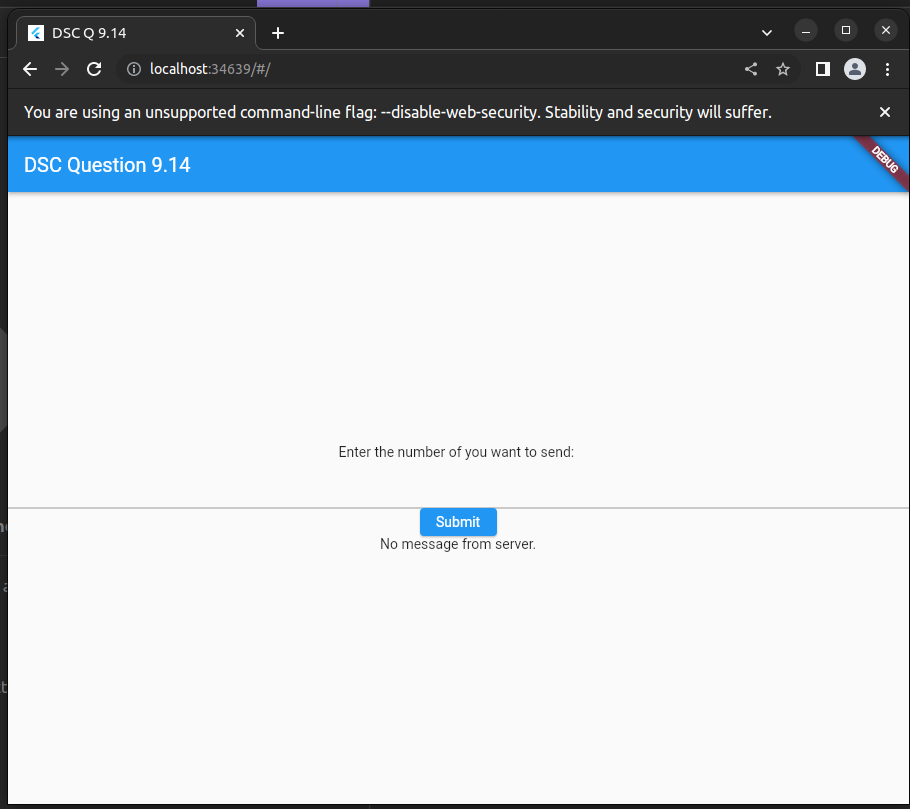
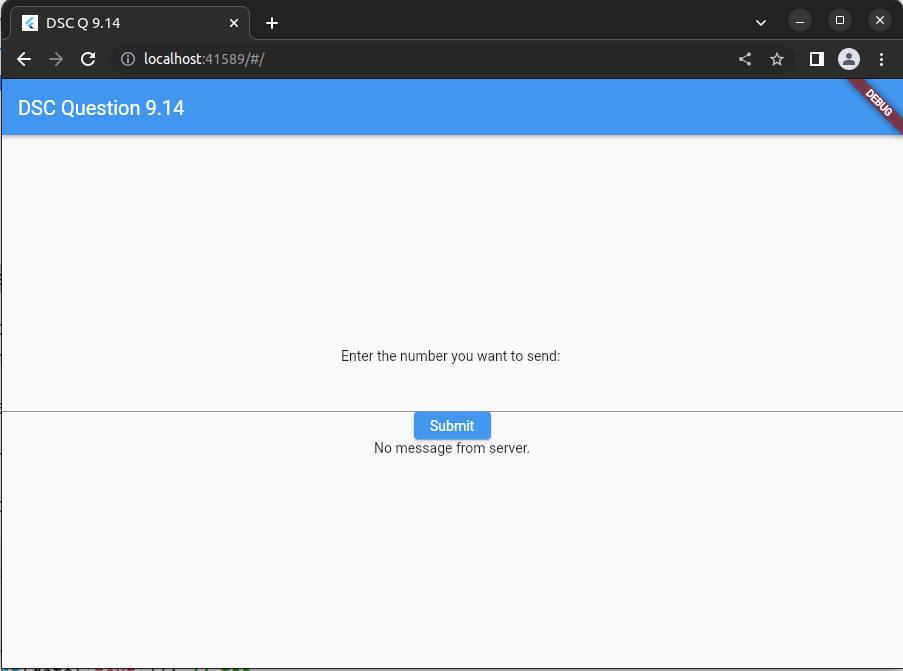
migration from sqlite3 to redis for exercise 9.14

diff --git a/Ch09_Application_Development/9.14.md b/Ch09_Application_Development/9.14.md
@@ -8,53 +8,69 @@
 
 # Python Version: 
 
-We will use the [sqlite](https://www.sqlite.org/index.html) database and [sqlite3](https://docs.python.org/3/library/sqlite3.html) python module.
+We will use the [Redis](https://redis.io/) database and [redis-py](https://github.com/redis/redis-py) python module.
 
-The following is the schema of the database (let's assume its name is `main.db`): 
 
-```sql 
-CREATE TABLE numbers_frequency(
-    n integer primary key, 
-    freq integer default 0
-);
-```
+Make sure Redis is installed on your machine : 
 
-Creating the database: 
+<img src="9.14_redis_ping_pong.png">
 
-<img src="9.14_creation_of_maindb.png"/>
+If Redis is not installed on your machine head on over to [redis.io](https://redis.io/docs/getting-started/). 
+
+
+Install the **redis-py** module: 
+
+<img src="9.14_installing_the_redispy_module.png">
+
+
+
+Then install fastapi: 
+
+<img src="9.14_install_fastapi.png">
 
 The following is the code of our backend: 
 
 ```python
-from fastapi import FastAPI
-import sqlite3
+from fastapi import FastAPI, Depends
+from fastapi.middleware.cors import CORSMiddleware
+
+import redis
 
 app = FastAPI()
-DB_NAME = "main.db"
+
+# to learn more about the following: 
+# https://fastapi.tiangolo.com/tutorial/cors/
+app.add_middleware(
+    CORSMiddleware,
+    allow_origins=["*"],
+    allow_methods=["GET"],
+    allow_headers=["*"],
+)
+
+# dependency with yield
+# to learn more about the following:
+# https://fastapi.tiangolo.com/tutorial/dependencies/dependencies-with-yield/
+def get_db(): 
+    db = redis.Redis(host='localhost', port=6379, db=0)
+    try: 
+        yield db
+    finally: 
+        db.close()
 
 @app.get("/submit")
-def submit_a_number(n: int): 
-    con = sqlite3.connect(DB_NAME)
-    cur = con.cursor()
-
-    res = cur.execute("SELECT * FROM numbers_frequency WHERE n = ?", (n,))
-    data = res.fetchone()
-    retval = dict() 
-
-    if data is None: 
-        # this is the first time the number is submitted
-        # so insert it. 
-        cur.execute("INSERT INTO numbers_frequency VALUES (?, 1)", (n,))
-        retval.update({"freq": 1})
-
-    else: 
-        cur.execute("UPDATE numbers_frequency SET freq = ? WHERE n = ?", (data[1]+1, n))
-        retval.update({"freq": data[1]+1})
-
-    con.commit()
-    con.close()
-    return retval
+def submit_a_number(n: int, db: redis.Redis = Depends(get_db)): 
+    # if you want to learn more about INCR command of redis 
+    # head on over to: https://redis.io/commands/incr/
+    return { 
+        "freq": db.incr(n)
+    }
 ```
+
+The following is taken from the documentation of redis: 
+
+> What does it mean that INCR is atomic? That even multiple clients issuing INCR against the same key will never enter into a race condition. For instance, it will never happen that client 1 reads “10”, client 2 reads “10” at the same time, both increment to 11, and set the new value to 11. The final value will always be 12 and the read-increment-set operation is performed while all the other clients are not executing a command at the same time. 
+
+
 
 Start your server (note that `x.py` holds the python code given above): 
 
@@ -71,14 +87,21 @@ Request 3:
 Request 4: 
 <img src="9.14_request4.png">
 
+Note: The above insomnia sessions were requesting an older version 
+of the backend app that used sqlite instead of redis. That is why 
+you see a response time $> 2 \text{ms}$. When using redis, response 
+times around $1.8 \text{ms}$ are normal. Example: 
+
+<img src="9.14_request5.png">
+
 I would write the frontend with [flutter](https://flutter.dev/) and let the flutter engine 
 compile the dart code to HTML for me.
 
 ```dart
-import 'package:flutter/foundation.dart';
+import 'dart:convert';
+
 import 'package:flutter/material.dart';
 import 'package:http/http.dart' as http;
-
 
 void main() {
   runApp(const MyApp());
@@ -134,44 +157,44 @@ class _MyHomePageState extends State<MyHomePage> {
         child: Column(
           mainAxisAlignment: MainAxisAlignment.center,
           children: <Widget>[
-            const Text("Enter the number of you want to send: "),
+            const Text("Enter the number you want to send: "),
             TextFormField(
-              controller: tec, 
-            ), 
+              controller: tec,
+            ),
             ElevatedButton(
-              child: Text("Submit"), 
-              onPressed: () { 
-                
-                try { 
-                  int n = int.parse(tec.text);
-                  http.get(Uri.parse("http://127.0.0.1:8000/submit?n=$n")).then(
-                    (http.Response r) { 
-                      setState(() {
-                        msg = r.body.toString();
-                      });
-                    }
-                  );
-                } catch (e) { 
-                  ScaffoldMessenger.of(context).showSnackBar(
-                    const SnackBar(content: Text("Some error occured! that is all we know."))
-                  );
-                }
-              }
-            ), 
+                child: const Text("Submit"),
+                onPressed: () {
+                  try {
+                    int n = int.parse(tec.text);
+                    http
+                        .get(Uri.parse("http://127.0.0.1:8000/submit?n=$n"))
+                        .then(
+                      (http.Response r) {
+                        String body = r.body;
+                        Map<String, dynamic> data = jsonDecode(body);
+                        int freq = data["freq"] as int;
+                        setState(
+                          () {
+                            msg =
+                                "The number $n has been submitted $freq times.";
+                          },
+                        );
+                      },
+                    );
+                  } catch (e) {
+                    ScaffoldMessenger.of(context).showSnackBar(const SnackBar(
+                        content:
+                            Text("Some error occured! that is all we know.")));
+                  }
+                }),
             Text(msg),
           ],
         ),
       ),
-
     );
   }
 }
-```
 
-Don't forget to disable [CORS](https://pub.dev/packages/flutter_cors) as in exercise 9.13 using the following command: 
-
-```bash
-fluttercors --disable
 ```
 
 Inital screen: 
@@ -183,14 +206,6 @@ After submitting the number 5:
 Compile: 
 
 <img src="9.13_compile.png">
-
-**WARNING** The code of the backend given above has 2 major problems: 
-1. It opens and closes a connection to the database during every HTTP GET request. 
-2. The system might incorrectly increment the frequency of a given number because of 
-race conditions. To solve this we need to use Database Transactions.
-
-I will leave this as a TODO for the future. Also, if anybody is up for the challenge 
-send a pull request and I am ready to merge. 
 
 # Servlet version: 
 
